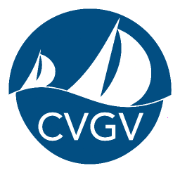
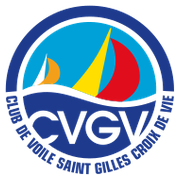
Improve SEO
- Unblock styles and images in robots.txt (only PDFs stay excluded) and
  reference a generated sitemap.xml
- Give every page its own title, description and canonical URL, plus
  Open Graph tags with a dedicated share image (or the regatta poster)
- Add schema.org data: the club as a SportsOrganization with its address,
  and each regatta as a SportsEvent
- Regenerate favicons and app icons from the new logo, name the web manifest
- Recompress the two heaviest posters and lazy-load below-the-fold images
- Mark the Défi redirect page as noindex

diff --git a/_includes/donnees-structurees.html b/_includes/donnees-structurees.html
@@ -1,0 +1,79 @@
+{% comment %}
+    Données structurées (schema.org) pour les moteurs de recherche :
+    le club sur l'accueil, et chaque régate comme événement sportif.
+{% endcomment %}
+{% capture club %}{
+    "@type": "SportsOrganization",
+    "name": "Club de Voile de Saint-Gilles-Croix-de-Vie",
+    "alternateName": "CVGV",
+    "sport": "Voile",
+    "url": "{{ site.url }}/",
+    "logo": "{{ site.url }}/android-chrome-512x512.png",
+    "email": "contact@cvgv.org",
+    "address": {
+        "@type": "PostalAddress",
+        "streetAddress": "Forum Port la Vie, Boulevard de l'Egalité",
+        "addressLocality": "Saint-Gilles-Croix-de-Vie",
+        "postalCode": "85800",
+        "addressRegion": "Vendée",
+        "addressCountry": "FR"
+    },
+    "sameAs": [
+        "https://www.facebook.com/clubvoilesaintgilles/",
+        "https://www.instagram.com/clubvoile_stgillesxdevie/"
+    ]
+}{% endcapture %}
+
+{% if page.url == "/" %}
+<script type="application/ld+json">
+{ "@context": "https://schema.org", {{ club | remove_first: "{" }}
+</script>
+
+{% elsif page.layout == "regate" %}
+<script type="application/ld+json">
+{
+    "@context": "https://schema.org",
+    "@type": "SportsEvent",
+    "name": {{ page.title | jsonify }},
+    {% if page.sous_titre %}"description": {{ page.sous_titre | jsonify }},{% endif %}
+    "sport": "Voile",
+    "startDate": "{{ page.debut | date: '%Y-%m-%d' }}",
+    "endDate": "{% if page.fin %}{{ page.fin | date: '%Y-%m-%d' }}{% else %}{{ page.debut | date: '%Y-%m-%d' }}{% endif %}",
+    "eventStatus": "https://schema.org/EventScheduled",
+    "eventAttendanceMode": "https://schema.org/OfflineEventAttendanceMode",
+    "location": {
+        "@type": "Place",
+        "name": {{ page.lieu | default: "Saint-Gilles-Croix-de-Vie" | jsonify }},
+        "address": { "@type": "PostalAddress", "addressLocality": {{ page.lieu | default: "Saint-Gilles-Croix-de-Vie" | remove: " (85)" | jsonify }}, "addressRegion": "Vendée", "addressCountry": "FR" }
+    },
+    {% if page.affiche %}"image": "{{ page.affiche | uri_escape | prepend: site.url }}",{% endif %}
+    "url": "{{ page.url | prepend: site.url }}",
+    "organizer": {{ club }}
+}
+</script>
+
+{% elsif page.url == "/habitable/regates.html" %}
+{% assign regates_seo = site.data["regates-habitables"].regates | sort: "debut" %}
+<script type="application/ld+json">
+{
+    "@context": "https://schema.org",
+    "@graph": [{% for regate in regates_seo %}{% unless forloop.first %},{% endunless %}
+        {
+            "@type": "SportsEvent",
+            "name": {{ regate.nom | jsonify }},
+            "sport": "Voile",
+            "startDate": "{{ regate.debut | date: '%Y-%m-%d' }}",
+            "endDate": "{% if regate.fin %}{{ regate.fin | date: '%Y-%m-%d' }}{% else %}{{ regate.debut | date: '%Y-%m-%d' }}{% endif %}",
+            "eventStatus": "https://schema.org/EventScheduled",
+            "eventAttendanceMode": "https://schema.org/OfflineEventAttendanceMode",
+            "location": {
+                "@type": "Place",
+                "name": {{ regate.lieu | default: "Vendée" | jsonify }},
+                "address": { "@type": "PostalAddress", "addressLocality": {{ regate.lieu | default: "Vendée" | jsonify }}, "addressRegion": "Vendée", "addressCountry": "FR" }
+            },
+            "url": {% if regate.page contains "://" %}{{ regate.page | jsonify }}{% elsif regate.page %}{{ regate.page | prepend: site.url | jsonify }}{% else %}"{{ site.url }}/habitable/regates.html"{% endif %}
+        }{% endfor %}
+    ]
+}
+</script>
+{% endif %}

diff --git a/index.html b/index.html
@@ -2,6 +2,7 @@
 layout: default
 title: Accueil
 order: 1
+description: "Club de voile à Saint-Gilles-Croix-de-Vie (Vendée) : voile légère pour enfants, ados et adultes, compétition, croisières et régates habitables."
 ---
 
 {% comment %} Prochaine régate et meilleur temps du Défi : calculés depuis les données du site. {% endcomment %}
@@ -157,7 +158,7 @@ order: 1
     >
         <div class="col-md-auto">
             <a href="https://www.portlavie.fr" rel="external">
-                <img
+                <img loading="lazy"
                     src="/assets/partners/logoportlavie.jpg"
                     alt="Port la Vie"
                 />
@@ -166,7 +167,7 @@ order: 1
 
         <div class="col-md-auto">
             <a href="https://www.saintgillescroixdevie.fr" rel="external">
-                <img
+                <img loading="lazy"
                     src="/assets/partners/logomairiestgilles.jpg?v=2"
                     alt="Ville de Saint Gilles Croix de Vie"
                 />
@@ -175,7 +176,7 @@ order: 1
 
         <div class="col-md-auto">
             <a href="https://www.saintgillescroixdevie-nautisme.fr/" rel="external">
-                <img
+                <img loading="lazy"
                     src="/assets/partners/logosaintgillescroixdevienautisme.jpg"
                     alt="Saint-Gilles-Croix-de-Vie Nautisme"
                 />
@@ -184,7 +185,7 @@ order: 1
 
         <div class="col-md-auto">
             <a href="http://www.oms-saintgillescroixdevie.com" rel="external">
-                <img
+                <img loading="lazy"
                     src="/assets/partners/logooms.jpg"
                     alt="Office Municipal des Sports"
                 />
@@ -193,7 +194,7 @@ order: 1
 
         <div class="col-md-auto">
             <a href="https://www.ffvoile.fr" rel="external">
-                <img
+                <img loading="lazy"
                     src="/assets/partners/logoffv.jpg"
                     alt="Fédération Française de Voile"
                 />
@@ -202,7 +203,7 @@ order: 1
 
         <div class="col-md-auto">
             <a href="https://www.uship.fr/" rel="external">
-                <img src="/assets/partners/logouship.svg" alt="Uship" />
+                <img loading="lazy" src="/assets/partners/logouship.svg" alt="Uship" />
             </a>
         </div>
     </div>

diff --git a/voile-legere/adultes.html b/voile-legere/adultes.html
@@ -1,6 +1,7 @@
 ---
 layout: default
 title: Voile légère Adultes
+description: "Voile légère loisir pour adultes, le samedi après-midi à la base nautique de Boisvinet à Saint-Gilles-Croix-de-Vie : catamaran, dériveur et planche à voile."
 ---
 
 <div class="container">
@@ -33,21 +34,21 @@ title: Voile légère Adultes
     </div>
     <div class="row">
         <div class="col-md-4 d-none d-md-block">
-            <img
+            <img loading="lazy"
                 class="img-fluid img-thumbnail"
                 src="/assets/voile-legere/adulte/banner2.jpg"
                 alt="Un catamaran à la voile orange et rouge navigue devant une digue, avec son équipage à bord"
             />
         </div>
         <div class="col-md-4 d-none d-md-block">
-            <img
+            <img loading="lazy"
                 class="img-fluid img-thumbnail"
                 src="/assets/voile-legere/adulte/banner3.jpg"
                 alt="Deux personnes souriantes gréent la voile d'un catamaran sur la plage"
             />
         </div>
         <div class="col-md-4">
-            <img
+            <img loading="lazy"
                 class="img-fluid img-thumbnail"
                 src="/assets/voile-legere/adulte/banner.jpg"
                 alt="Un catamaran RS Cat 16 aux voiles bleue et jaune navigue près d'une plage"

diff --git a/habitable/defi-pilours-sablaire.html b/habitable/defi-pilours-sablaire.html
@@ -1,5 +1,6 @@
 ---
 layout: null
+sitemap: false
 title: Défi Pilours-Sablaire
 order: 5
 ---
@@ -10,7 +11,8 @@ order: 5
     <head>
         <meta charset="UTF-8" />
         <title>Défi Pilours-Sablaire</title>
-        <link rel="canonical" href="{{ latest.url }}" />
+        <meta name="robots" content="noindex, follow" />
+        <link rel="canonical" href="{{ latest.url | prepend: site.url }}" />
         <meta http-equiv="refresh" content="0; url={{ latest.url }}" />
     </head>
     <body>

diff --git a/habitable/regates.html b/habitable/regates.html
@@ -2,6 +2,7 @@
 layout: default
 title: Régates Habitables
 order: 3
+description: "Calendrier des régates habitables du CVGV et du championnat de Vendée : dates, lieux, avis et instructions de course, inscription."
 ---
 
 {% comment %} Calendrier lu depuis _data/regates-habitables.yml. {% endcomment %}

diff --git a/voile-legere/jeunes.html b/voile-legere/jeunes.html
@@ -1,6 +1,7 @@
 ---
 layout: default
 title: Voile légère Enfants 8-11 ans
+description: "Voile légère loisir pour les enfants de 8 à 11 ans, le mercredi après-midi à Saint-Gilles-Croix-de-Vie : catamaran et optimist. Tarif, séances et inscription."
 ---
 
 <div class="container">

diff --git a/voile-legere/adolescents.html b/voile-legere/adolescents.html
@@ -1,6 +1,7 @@
 ---
 layout: default
 title: Voile légère Ados 12-17 ans
+description: "Voile légère loisir pour les 12-17 ans, le mercredi après-midi à Saint-Gilles-Croix-de-Vie : catamaran, dériveur et planche à voile, niveau 3 FFVoile."
 ---
 
 <div class="container">

diff --git a/voile-legere/competition.html b/voile-legere/competition.html
@@ -1,6 +1,7 @@
 ---
 layout: default
 title: Voile légère compétition
+description: "Groupes compétition Optimist, Open Skiff et Laser du CVGV, le mercredi après-midi à Saint-Gilles-Croix-de-Vie : tarif, séances et inscription."
 ---
 
 <div class="container">

diff --git a/habitable/croisieres.html b/habitable/croisieres.html
@@ -1,6 +1,7 @@
 ---
 layout: default
 title: Croisières
+description: "Croisières en flottille avec la section habitable du CVGV : partage d'expérience, entraide et convivialité, des côtes de Charente à la Bretagne Nord."
 ---
 
 <div class="container">

diff --git a/voile-legere/regates.html b/voile-legere/regates.html
@@ -2,6 +2,7 @@
 layout: default
 title: Régates Voile légère
 order: 4
+description: "Régates de voile légère du Club de Voile de Saint-Gilles-Croix-de-Vie : annonces et informations."
 ---
 
 <div class="container">
